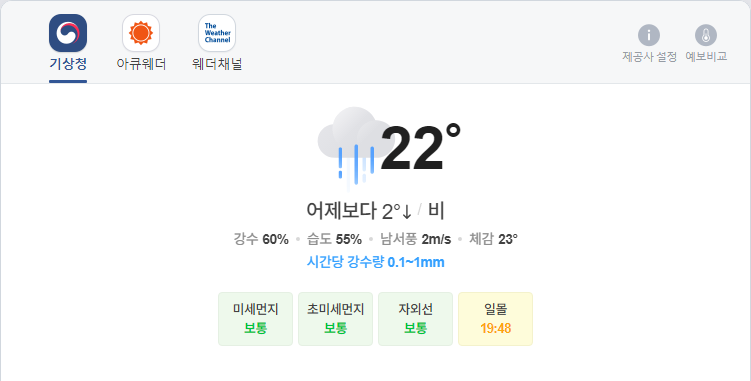
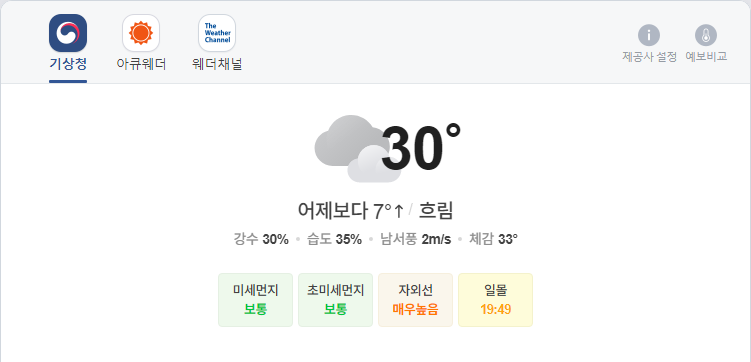
update result

diff --git a/README.md b/README.md
@@ -1,5 +1,5 @@
-##  2021-06-01 16:02:42   화요일 
-##### 날씨   -   어제보다 2° 낮아요비  
+##  2021-06-02 16:02:52   수요일 
+##### 날씨   -   어제보다 7° 높아요흐림  
 <center><img src="../img/naver_weather_week.png"></center>
 ----
 ----
@@ -13,44 +13,44 @@
 ##### 세계
 <table border="1" bordercolor="blue" align = "center" >
 <tr align = "right" > <td>Item</td><td>Point</td><td>Diff</td><td>Rate</td><td>Buy</td><td>Sell</td><td>...</td>  </tr>
-<tr align = "right" > <td>DOW</td><td>34,529.45</td><td>64.81</td><td><font size="3" color="red" >0.19%</font></td><td><font size="3" color="black">0</font></td><td><font size="3" color="black">0</font></td><td>0</td>  </tr>
-<tr align = "right" > <td>NASDAQ</td><td>13,748.74</td><td>12.46</td><td><font size="3" color="red" >0.09%</font></td><td><font size="3" color="black">0</font></td><td><font size="3" color="black">0</font></td><td>0</td>  </tr>
-<tr align = "right" > <td>S&P</td><td>4,204.11</td><td>3.23</td><td><font size="3" color="red" >0.08%</font></td><td><font size="3" color="black">0</font></td><td><font size="3" color="black">0</font></td><td>0</td>  </tr>
-<tr align = "right" > <td>SHANHAI</td><td>3,623.87</td><td>8.39</td><td><font size="3" color="red" >0.23%</font></td><td><font size="3" color="black">0</font></td><td><font size="3" color="black">0</font></td><td>0</td>  </tr>
-<tr align = "right" > <td>INDIA</td><td>51,956.61</td><td>19.17</td><td><font size="3" color="red" >0.04%</font></td><td><font size="3" color="black">0</font></td><td><font size="3" color="black">0</font></td><td>0</td>  </tr>
+<tr align = "right" > <td>DOW</td><td>34,575.31</td><td>45.86</td><td><font size="3" color="red" >0.13%</font></td><td><font size="3" color="black">0</font></td><td><font size="3" color="black">0</font></td><td>0</td>  </tr>
+<tr align = "right" > <td>NASDAQ</td><td>13,736.48</td><td>-12.26</td><td><font size="3" color="blue" >-0.09%</font></td><td><font size="3" color="black">0</font></td><td><font size="3" color="black">0</font></td><td>0</td>  </tr>
+<tr align = "right" > <td>S&P</td><td>4,202.04</td><td>-2.07</td><td><font size="3" color="blue" >-0.05%</font></td><td><font size="3" color="black">0</font></td><td><font size="3" color="black">0</font></td><td>0</td>  </tr>
+<tr align = "right" > <td>SHANHAI</td><td>3,594.62</td><td>-30.1</td><td><font size="3" color="blue" >-0.83%</font></td><td><font size="3" color="black">0</font></td><td><font size="3" color="black">0</font></td><td>0</td>  </tr>
+<tr align = "right" > <td>INDIA</td><td>51,525.68</td><td>-409.2</td><td><font size="3" color="blue" >-0.79%</font></td><td><font size="3" color="black">0</font></td><td><font size="3" color="black">0</font></td><td>0</td>  </tr>
 </table>
 ----
 ##### 시장
 <table border="1" bordercolor="blue" align = "center" >
 <tr align = "right" > <td>Item</td><td>Price</td><td>Diff</td><td>Rate</td><td>Buy</td><td>Sell</td><td>...</td>  </tr>
-<tr align = "right" > <td>USD</td><td>1,106.0</td><td>-2.2</td><td><font size="3" color="blue">-0.2%</font></td><td><font size="3" color="orangered">1,110</font></td><td><font size="3" color="black">0</font></td><td>0</td>  </tr>
-<tr align = "right" > <td>WTI</td><td>66.32</td><td>-0.53</td><td><font size="3" color="blue">-0.79%</font></td><td><font size="3" color="black">29.0</font></td><td><font size="3" color="black">0</font></td><td>0</td>  </tr>
-<tr align = "right" > <td>GOLD</td><td>1,902.0</td><td>6.8</td><td><font size="3" color="red">0.35%</font></td><td><font size="3" color="black">0</font></td><td><font size="3" color="black">0</font></td><td>0</td>  </tr>
+<tr align = "right" > <td>USD</td><td>1,113.0</td><td>4.0</td><td><font size="3" color="red">0.36%</font></td><td><font size="3" color="black">1,110</font></td><td><font size="3" color="black">0</font></td><td>0</td>  </tr>
+<tr align = "right" > <td>WTI</td><td>67.72</td><td>1.4</td><td><font size="3" color="red">2.11%</font></td><td><font size="3" color="black">29.0</font></td><td><font size="3" color="black">0</font></td><td>0</td>  </tr>
+<tr align = "right" > <td>GOLD</td><td>1,902.0</td><td>0.4</td><td><font size="3" color="red">0.02%</font></td><td><font size="3" color="black">0</font></td><td><font size="3" color="black">0</font></td><td>0</td>  </tr>
 </table>
 ----
 ##### 주가
 <table border="1" bordercolor="blue" align = "center" >
 <tr align = "right" > <td>Item</td><td>Price</td><td>Diff</td><td>Rate</td><td>Purchased</td><td>Sell</td><td>Buy</td>  </tr>
-<tr align = "right" > <td>한국 전력</td><td>26,100</td><td>300</td><td><font size="3" color="red">1.16%</font></td><td>25,720</td><td><font size="3" color="black">27,700</font></td><td><font size="3" color="black">20,700</font></td>  </tr>
-<tr align = "right" > <td>삼성엔지니어.</td><td>18,900</td><td>0</td><td><font size="3" color="black">0.0%</font></td><td>18,935</td><td><font size="3" color="black">20,000</font></td><td><font size="3" color="black">8,000</font></td>  </tr>
-<tr align = "right" > <td>CJ CGV</td><td>33,100</td><td>-350</td><td><font size="3" color="blue">-1.05%</font></td><td>34,895</td><td><font size="3" color="black">36,000</font></td><td><font size="3" color="black">0</font></td>  </tr>
-<tr align = "right" > <td>아모레퍼시픽</td><td>285,000</td><td>-2,000</td><td><font size="3" color="blue">-0.7%</font></td><td>235,350</td><td><font size="3" color="black">240,000</font></td><td><font size="3" color="black">130,000</font></td>  </tr>
-<tr align = "right" > <td>한화</td><td>32,600</td><td>1,200</td><td><font size="3" color="red">3.82%</font></td><td>25,550</td><td><font size="3" color="black">26,250</font></td><td><font size="3" color="black">26,250</font></td>  </tr>
-<tr align = "right" > <td>NAVER</td><td>367,000</td><td>4,500</td><td><font size="3" color="red">1.24%</font></td><td>147,200</td><td><font size="3" color="black">386,000</font></td><td><font size="3" color="black">286,000</font></td>  </tr>
-<tr align = "right" > <td>LG 화학우</td><td>372,000</td><td>0</td><td><font size="3" color="black">0.0%</font></td><td>202,490</td><td><font size="3" color="black">384,000</font></td><td><font size="3" color="orangered">384,000</font></td>  </tr>
-<tr align = "right" > <td>스튜디오드래.</td><td>98,200</td><td>100</td><td><font size="3" color="red">0.1%</font></td><td>81,243</td><td><font size="3" color="black">85,200</font></td><td><font size="3" color="black">85,200</font></td>  </tr>
-<tr align = "right" > <td>QV미국IT</td><td>28,200</td><td>0</td><td><font size="3" color="black">0.0%</font></td><td>0</td><td><font size="3" color="black">30,000</font></td><td><font size="3" color="black">20,000</font></td>  </tr>
-<tr align = "right" > <td>삼성 전자우</td><td>73,100</td><td>100</td><td><font size="3" color="red">0.14%</font></td><td>48,250</td><td><font size="3" color="black">56,000</font></td><td><font size="3" color="black">45,000</font></td>  </tr>
-<tr align = "right" > <td>LS</td><td>69,300</td><td>-300</td><td><font size="3" color="blue">-0.43%</font></td><td>71,900</td><td><font size="3" color="black">82,000</font></td><td><font size="3" color="black">60,000</font></td>  </tr>
-<tr align = "right" > <td>한화에어로스.</td><td>48,650</td><td>1,850</td><td><font size="3" color="red">3.95%</font></td><td>25,700</td><td><font size="3" color="black">30,000</font></td><td><font size="3" color="black">24,000</font></td>  </tr>
-<tr align = "right" > <td>카카오</td><td>127,000</td><td>4,000</td><td><font size="3" color="red">3.25%</font></td><td>405,500</td><td><font size="3" color="black">440,000</font></td><td><font size="3" color="orangered">400,000</font></td>  </tr>
-<tr align = "right" > <td>호텔 신라</td><td>99,800</td><td>-1,700</td><td><font size="3" color="blue">-1.67%</font></td><td>72,800</td><td><font size="3" color="black">100,000</font></td><td><font size="3" color="black">70,000</font></td>  </tr>
-<tr align = "right" > <td>S-Oil</td><td>99,900</td><td>6,300</td><td><font size="3" color="red">6.73%</font></td><td>62,842</td><td><font size="3" color="black">100,000</font></td><td><font size="3" color="black">50,000</font></td>  </tr>
-<tr align = "right" > <td>LG전자</td><td>151,500</td><td>-500</td><td><font size="3" color="blue">-0.33%</font></td><td>82,022</td><td><font size="3" color="black">100,000</font></td><td><font size="3" color="black">60,000</font></td>  </tr>
-<tr align = "right" > <td>KT&G</td><td>85,300</td><td>1,000</td><td><font size="3" color="red">1.19%</font></td><td>80,400</td><td><font size="3" color="black">100,000</font></td><td><font size="3" color="black">70,000</font></td>  </tr>
-<tr align = "right" > <td>지역난방공사</td><td>43,700</td><td>-50</td><td><font size="3" color="blue">-0.11%</font></td><td>43,590</td><td><font size="3" color="black">60,000</font></td><td><font size="3" color="black">30,000</font></td>  </tr>
-<tr align = "right" > <td>KOEDX은행</td><td>7,765</td><td>20</td><td><font size="3" color="red">0.26%</font></td><td>5,178</td><td><font size="3" color="black">6,225</font></td><td><font size="3" color="black">6,225</font></td>  </tr>
-<tr align = "right" > <td>글로벌럭셔리</td><td>17,750</td><td>25</td><td><font size="3" color="red">0.14%</font></td><td>15,260</td><td><font size="3" color="black">20,000</font></td><td><font size="3" color="black">10,000</font></td>  </tr>
-<tr align = "right" > <td>한국금융지주</td><td>103,000</td><td>-1,000</td><td><font size="3" color="blue">-0.96%</font></td><td>0</td><td><font size="3" color="black">82,000</font></td><td><font size="3" color="black">60,000</font></td>  </tr>
+<tr align = "right" > <td>한국 전력</td><td>25,650</td><td>-450</td><td><font size="3" color="blue">-1.72%</font></td><td>25,720</td><td><font size="3" color="black">27,700</font></td><td><font size="3" color="black">20,700</font></td>  </tr>
+<tr align = "right" > <td>삼성엔지니어.</td><td>19,900</td><td>1,000</td><td><font size="3" color="red">5.29%</font></td><td>18,935</td><td><font size="3" color="black">20,000</font></td><td><font size="3" color="black">8,000</font></td>  </tr>
+<tr align = "right" > <td>CJ CGV</td><td>33,250</td><td>150</td><td><font size="3" color="red">0.45%</font></td><td>34,895</td><td><font size="3" color="black">36,000</font></td><td><font size="3" color="black">0</font></td>  </tr>
+<tr align = "right" > <td>아모레퍼시픽</td><td>285,000</td><td>0</td><td><font size="3" color="black">0.0%</font></td><td>235,350</td><td><font size="3" color="black">240,000</font></td><td><font size="3" color="black">130,000</font></td>  </tr>
+<tr align = "right" > <td>한화</td><td>32,550</td><td>-50</td><td><font size="3" color="blue">-0.15%</font></td><td>25,550</td><td><font size="3" color="black">26,250</font></td><td><font size="3" color="black">26,250</font></td>  </tr>
+<tr align = "right" > <td>NAVER</td><td>363,000</td><td>-4,000</td><td><font size="3" color="blue">-1.09%</font></td><td>147,200</td><td><font size="3" color="black">386,000</font></td><td><font size="3" color="black">286,000</font></td>  </tr>
+<tr align = "right" > <td>LG 화학우</td><td>369,000</td><td>-3,000</td><td><font size="3" color="blue">-0.81%</font></td><td>202,490</td><td><font size="3" color="black">384,000</font></td><td><font size="3" color="orangered">384,000</font></td>  </tr>
+<tr align = "right" > <td>스튜디오드래.</td><td>97,500</td><td>-700</td><td><font size="3" color="blue">-0.71%</font></td><td>81,243</td><td><font size="3" color="black">85,200</font></td><td><font size="3" color="black">85,200</font></td>  </tr>
+<tr align = "right" > <td>QV미국IT</td><td>28,170</td><td>-30</td><td><font size="3" color="blue">-0.11%</font></td><td>0</td><td><font size="3" color="black">30,000</font></td><td><font size="3" color="black">20,000</font></td>  </tr>
+<tr align = "right" > <td>삼성 전자우</td><td>72,800</td><td>-300</td><td><font size="3" color="blue">-0.41%</font></td><td>48,250</td><td><font size="3" color="black">56,000</font></td><td><font size="3" color="black">45,000</font></td>  </tr>
+<tr align = "right" > <td>LS</td><td>72,500</td><td>3,200</td><td><font size="3" color="red">4.62%</font></td><td>71,900</td><td><font size="3" color="black">82,000</font></td><td><font size="3" color="black">60,000</font></td>  </tr>
+<tr align = "right" > <td>한화에어로스.</td><td>47,600</td><td>-1,050</td><td><font size="3" color="blue">-2.16%</font></td><td>25,700</td><td><font size="3" color="black">30,000</font></td><td><font size="3" color="black">24,000</font></td>  </tr>
+<tr align = "right" > <td>카카오</td><td>127,000</td><td>0</td><td><font size="3" color="black">0.0%</font></td><td>405,500</td><td><font size="3" color="black">440,000</font></td><td><font size="3" color="orangered">400,000</font></td>  </tr>
+<tr align = "right" > <td>호텔 신라</td><td>101,500</td><td>1,700</td><td><font size="3" color="red">1.7%</font></td><td>72,800</td><td><font size="3" color="black">100,000</font></td><td><font size="3" color="black">70,000</font></td>  </tr>
+<tr align = "right" > <td>S-Oil</td><td>102,500</td><td>2,600</td><td><font size="3" color="red">2.6%</font></td><td>62,842</td><td><font size="3" color="black">100,000</font></td><td><font size="3" color="black">50,000</font></td>  </tr>
+<tr align = "right" > <td>LG전자</td><td>151,500</td><td>0</td><td><font size="3" color="black">0.0%</font></td><td>82,022</td><td><font size="3" color="black">100,000</font></td><td><font size="3" color="black">60,000</font></td>  </tr>
+<tr align = "right" > <td>KT&G</td><td>85,000</td><td>-300</td><td><font size="3" color="blue">-0.35%</font></td><td>80,400</td><td><font size="3" color="black">100,000</font></td><td><font size="3" color="black">70,000</font></td>  </tr>
+<tr align = "right" > <td>지역난방공사</td><td>45,850</td><td>2,150</td><td><font size="3" color="red">4.92%</font></td><td>43,590</td><td><font size="3" color="black">60,000</font></td><td><font size="3" color="black">30,000</font></td>  </tr>
+<tr align = "right" > <td>KOEDX은행</td><td>7,805</td><td>40</td><td><font size="3" color="red">0.52%</font></td><td>5,178</td><td><font size="3" color="black">6,225</font></td><td><font size="3" color="black">6,225</font></td>  </tr>
+<tr align = "right" > <td>글로벌럭셔리</td><td>17,940</td><td>190</td><td><font size="3" color="red">1.07%</font></td><td>15,260</td><td><font size="3" color="black">20,000</font></td><td><font size="3" color="black">10,000</font></td>  </tr>
+<tr align = "right" > <td>한국금융지주</td><td>106,000</td><td>3,000</td><td><font size="3" color="red">2.91%</font></td><td>0</td><td><font size="3" color="black">82,000</font></td><td><font size="3" color="black">60,000</font></td>  </tr>
 </table>
 ----
